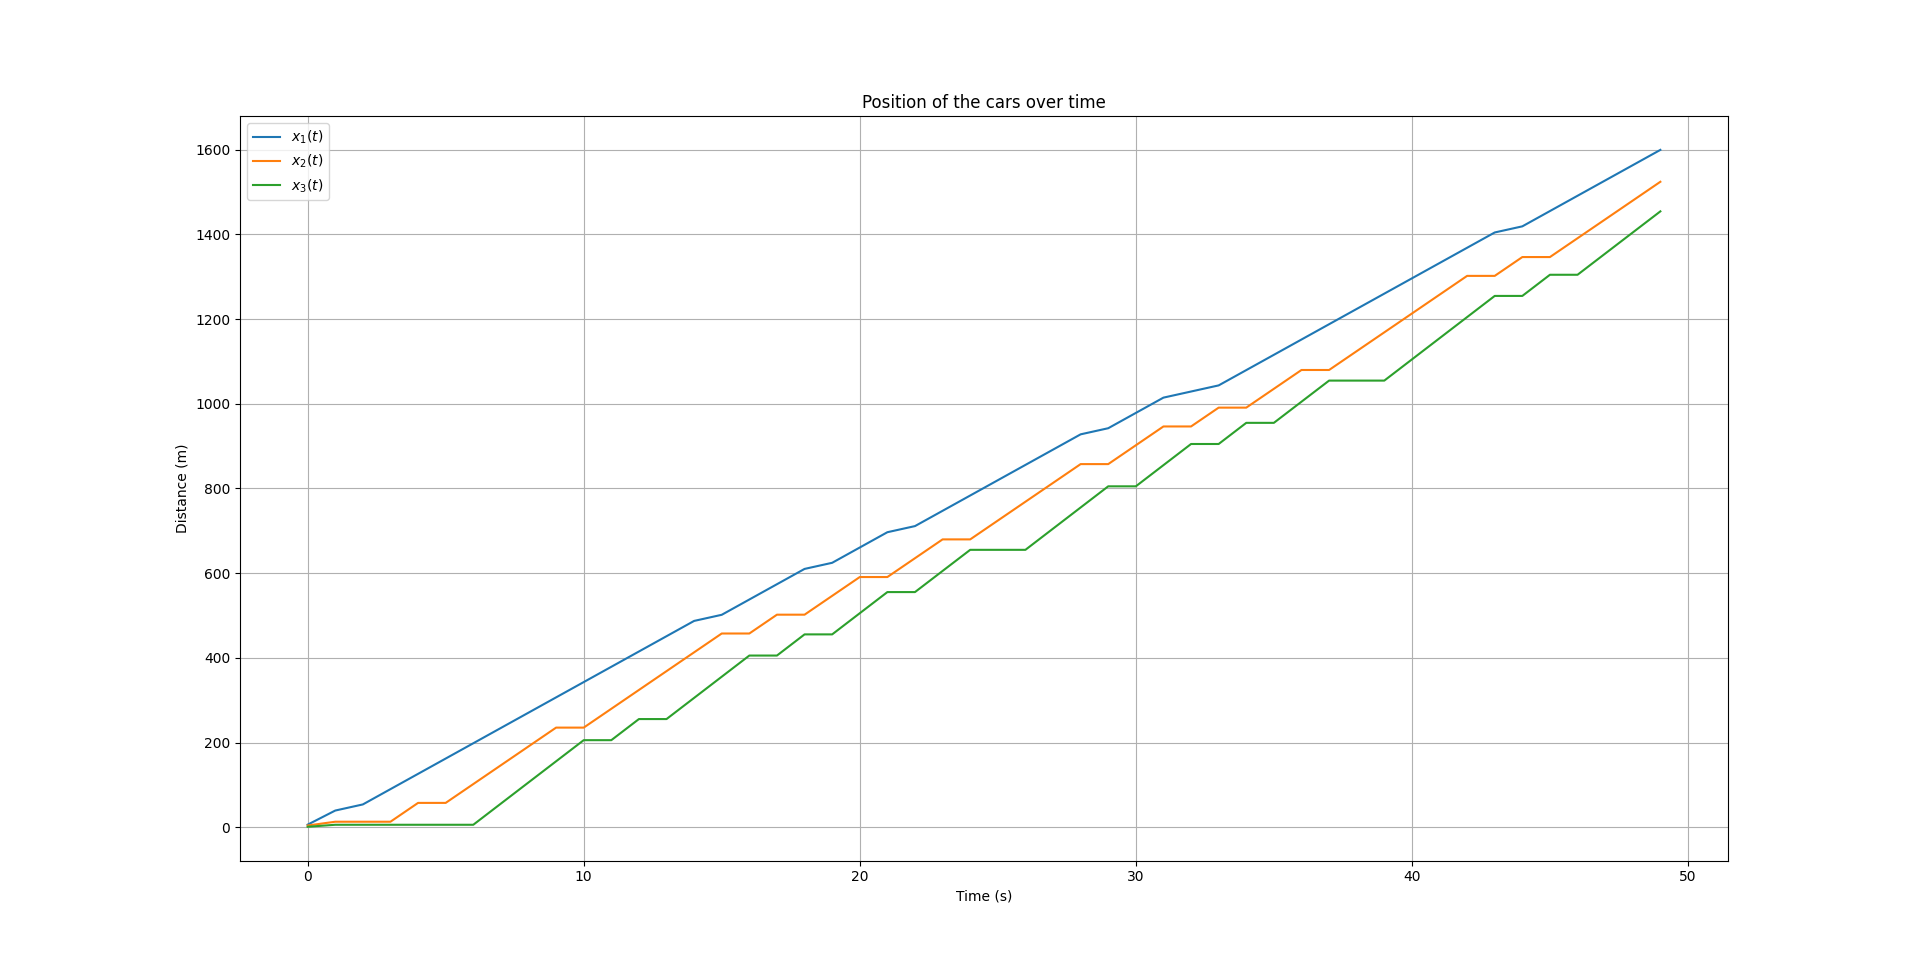
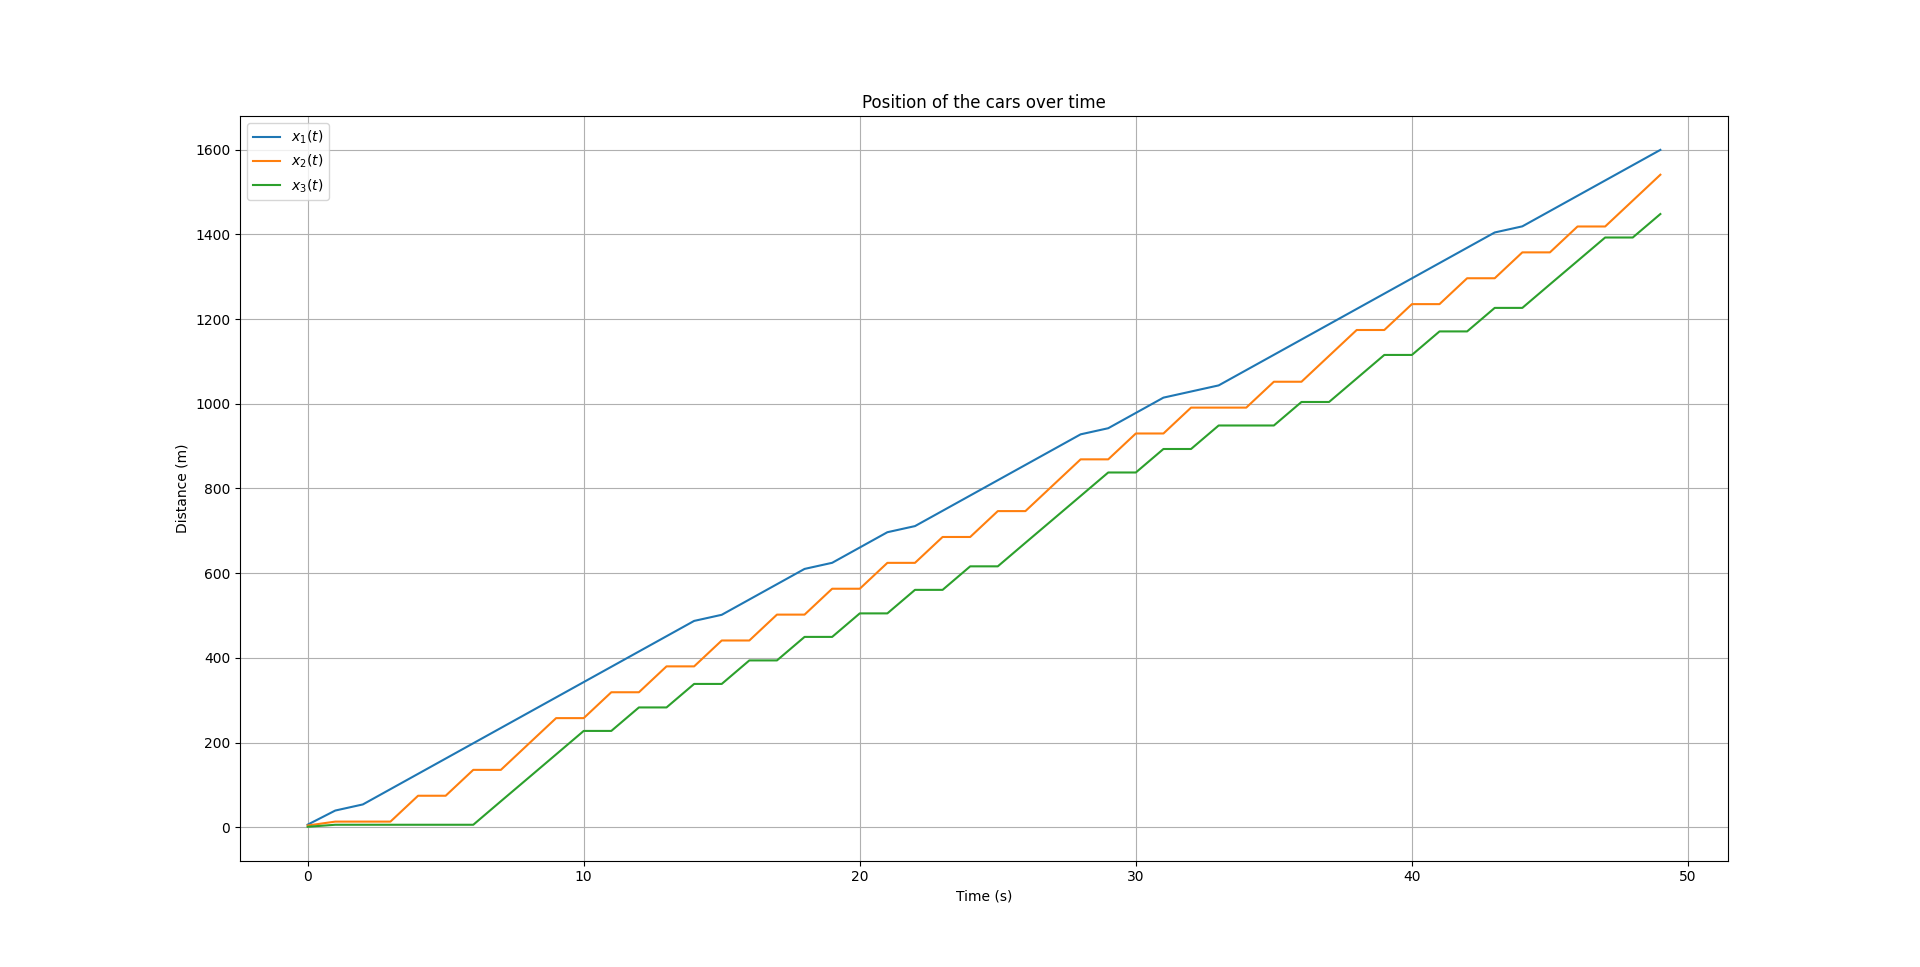
add graph

Changed region(s): [[0.6562, 0.1861, 0.875, 0.4343], [0.4375, 0.4343, 0.6562, 0.6515], [0.2188, 0.6515, 0.4375, 0.8376]]

diff --git a/SRTM/EDOMethod/ExpModel/CasTestToLaunch/PythonFile/Model1W3C_O_Aco_D2.py b/SRTM/EDOMethod/ExpModel/CasTestToLaunch/PythonFile/Model1W3C_O_Aco_D2.py
@@ -22,13 +22,13 @@ h = float(sys.argv[2])
 d2 = float(sys.argv[3])
 d3= float(sys.argv[6])
 V1max=120*(1000/3600) #maximum speed of the first car
-V2max=160*(1000/3600) #maximum speed of the second car #maximum speed of the second car
-V3max=180*(1000/3600) #maximum speed of the third car #maximum speed of the second car
+V2max=220*(1000/3600) #maximum speed of the second car #maximum speed of the second car
+V3max=200*(1000/3600) #maximum speed of the third car #maximum speed of the second car
 nameCaseToLaunch=sys.argv[4]
 
 
 
-T = 100.0  # Total simulation time
+T = 50.0  # Total simulation time
 n_steps = int(T / h)  # Number of time steps
 
 #_________________________________________________ Initialise arrays to storing data  ___________________________________________________
@@ -109,7 +109,7 @@ def obstacle(t):
     return V1max
 
 def VariationsOfComportment(criticalDistance, boringDistance,t):
-    W = 15.0  # Amplitude de la perturbation
+    W = 1500.0  # Amplitude de la perturbation
     omega = 2.0  # Fréquence angulaire
     phi = np.pi / 4  # Phase (en radians)
     a2 = 0

diff --git a/SRTM/EDOMethod/ExpModel/CasTestToLaunch/PythonFile/Model1W3C_O_Aco_I2.py b/SRTM/EDOMethod/ExpModel/CasTestToLaunch/PythonFile/Model1W3C_O_Aco_I2.py
@@ -22,8 +22,8 @@ h = float(sys.argv[2])
 d2 = float(sys.argv[3])
 d3= float(sys.argv[6])
 V1max=120*(1000/3600) #maximum speed of the first car
-V2max=160*(1000/3600) #maximum speed of the second car #maximum speed of the second car
-V3max=180*(1000/3600) #maximum speed of the third car #maximum speed of the second car
+V2max=220*(1000/3600) #maximum speed of the second car #maximum speed of the second car
+V3max=200*(1000/3600) #maximum speed of the third car #maximum speed of the second car
 nameCaseToLaunch=sys.argv[4]
 
 
@@ -112,7 +112,7 @@ def obstacle(t):
     return V1max
 
 def VariationsOfComportment(criticalDistance, boringDistance,t):
-    W = 15.0  # Amplitude de la perturbation
+    W = 1500.0  # Amplitude de la perturbation
     omega = 2.0  # Fréquence angulaire
     phi = np.pi / 4  # Phase (en radians)
     a2 = 0
